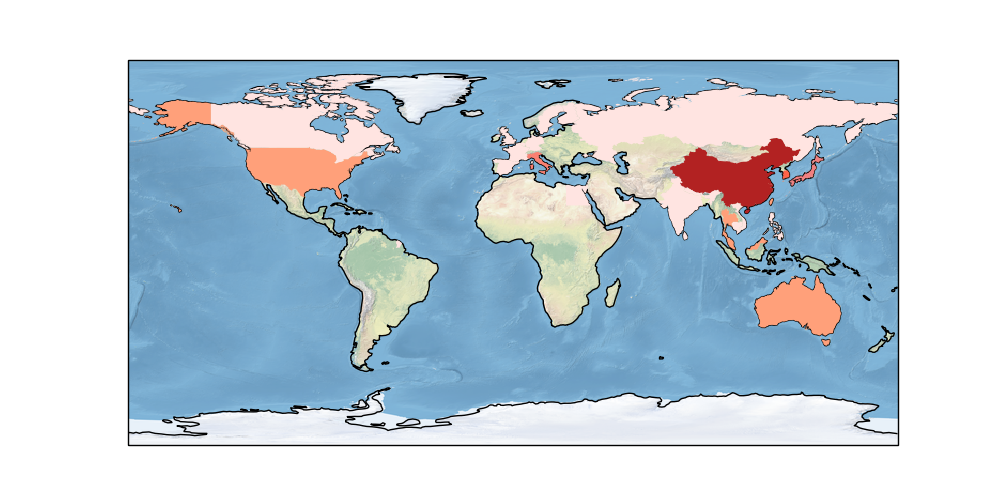
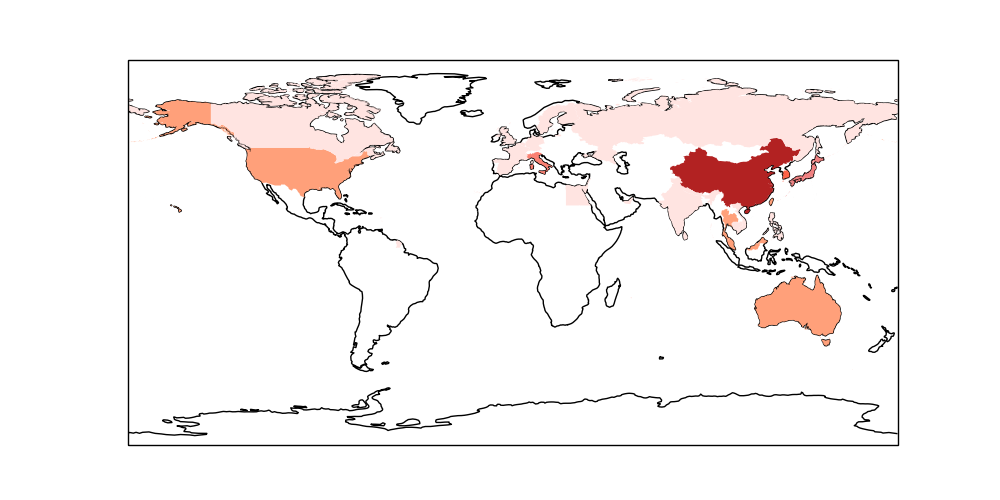
-

diff --git a/en/2020/02/corona.md b/en/2020/02/corona.md
@@ -32,7 +32,6 @@ import cartopy.feature as cfeature
 fig = plt.figure(figsize=(10, 5))
 ax = fig.add_subplot(1, 1, 1, projection=ccrs.PlateCarree())
 ax = plt.axes(projection=ccrs.PlateCarree())
-ax.stock_img()
 ax.coastlines()
 shp = shpreader.natural_earth(resolution='10m',category='cultural',
                               name='admin_0_countries')
@@ -41,7 +40,7 @@ for n in reader.records() :
     if n.attributes['ADM0_A3'] in col_dict:
         c = col_dict[n.attributes['ADM0_A3']]
         if ('str' in str(type(c))): ax.add_geometries(n.geometry, ccrs.PlateCarree(), facecolor=col_dict[n.attributes['ADM0_A3']])
-plt.savefig('corona.png')
+plt.savefig('corworld.png')
 ```
 
 ![](corworld.png)
